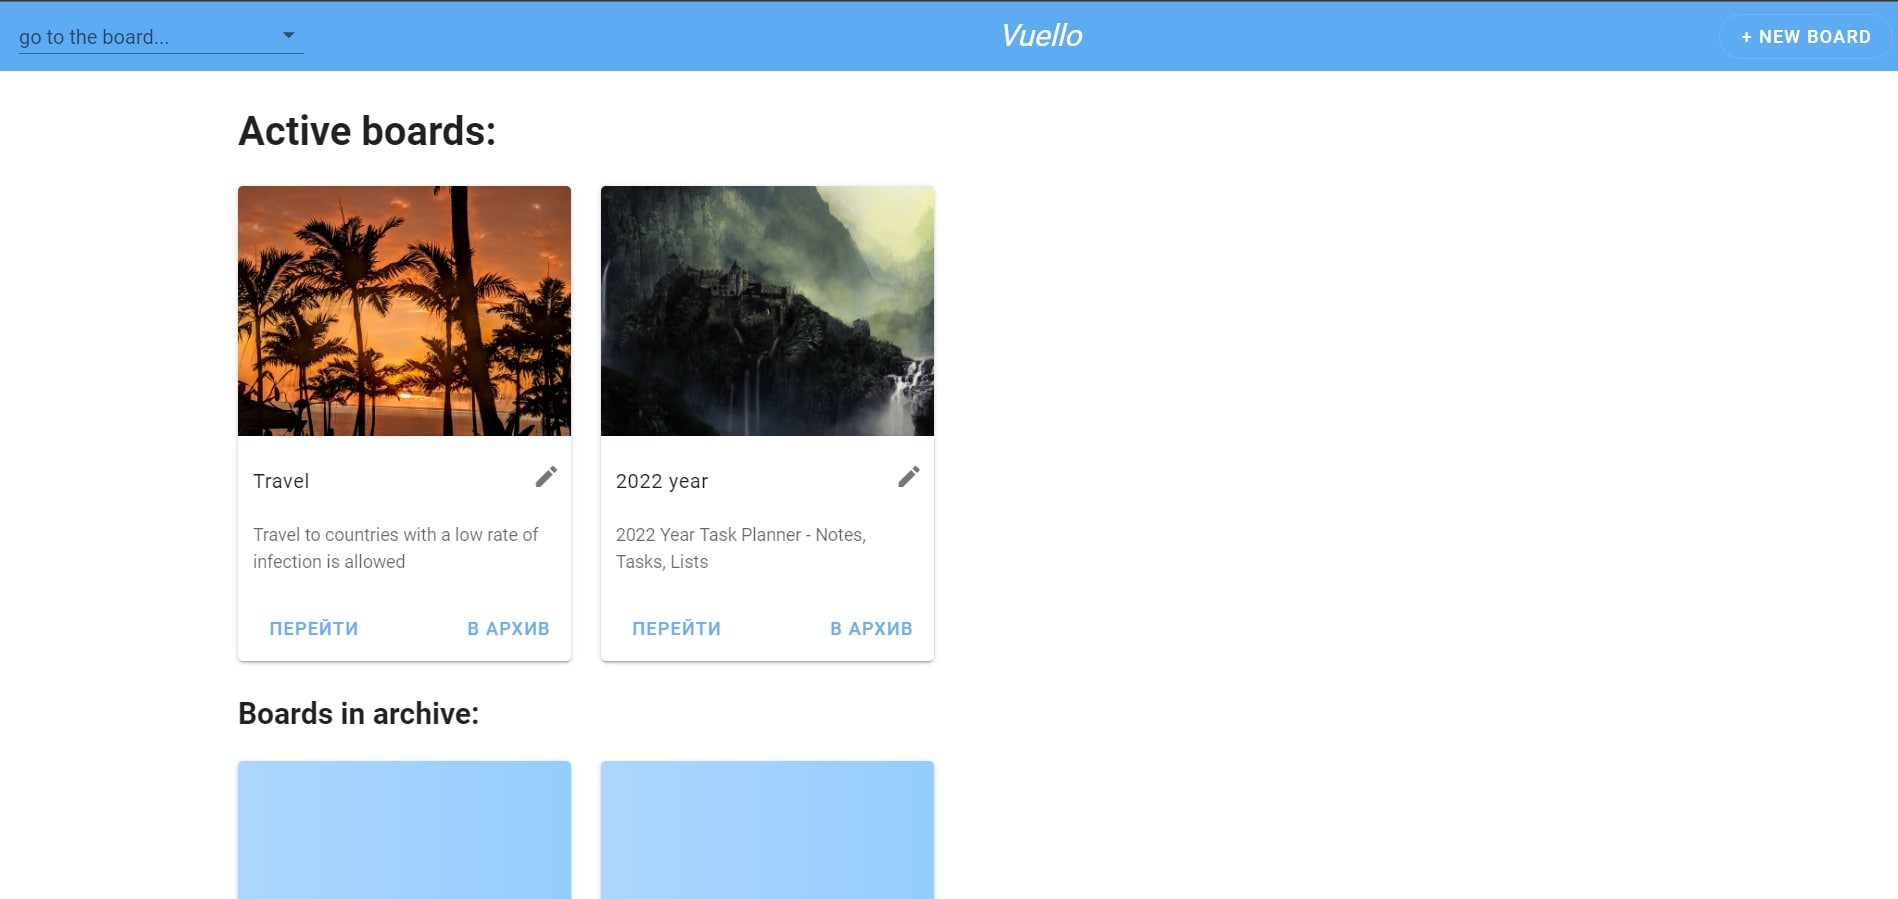
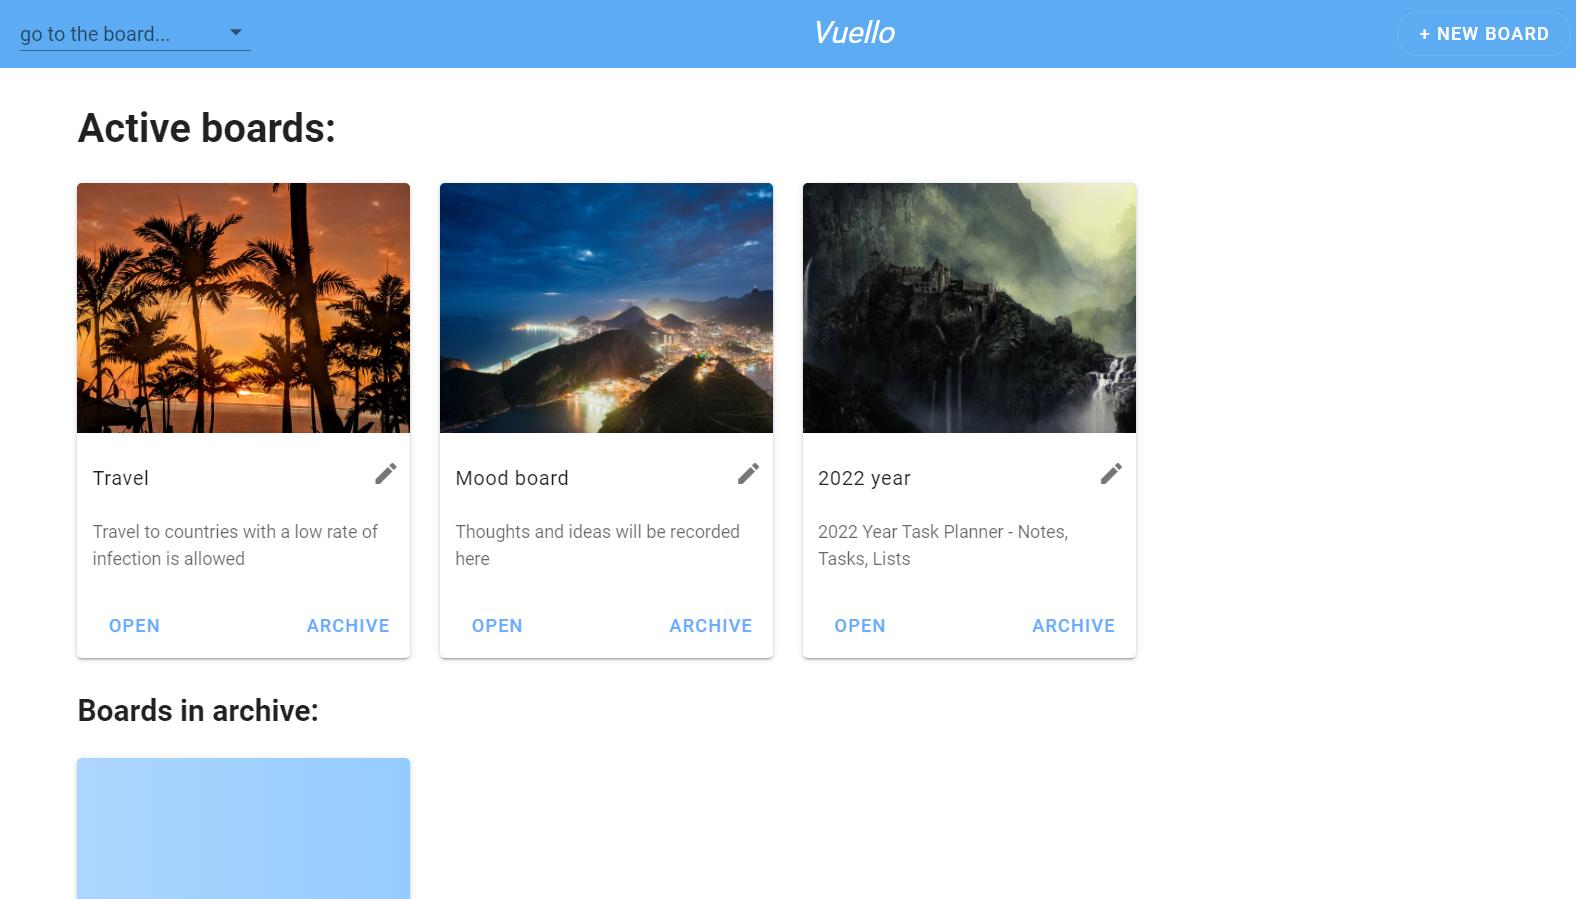
update README

diff --git a/src/components/Dashboard/DashboardItem.vue b/src/components/Dashboard/DashboardItem.vue
@@ -28,19 +28,19 @@
 
     <v-card-actions v-if="!board.archived">
       <router-link :to="'boards/' + board.id" class="link">
-        <v-btn color="primary lighten-2" text>Перейти </v-btn></router-link
+        <v-btn color="primary lighten-2" text>Open </v-btn></router-link
       >
 
       <v-spacer></v-spacer>
 
       <v-btn color="primary lighten-2" text @click="archiveBoard">
-        В архив
+        Archive
       </v-btn>
     </v-card-actions>
 
     <v-card-actions v-else>
       <v-btn color="primary lighten-2" text @click="archiveBoard">
-        Восстановить
+        Recover
       </v-btn>
     </v-card-actions>
   </v-card>

diff --git a/README.md b/README.md
@@ -5,7 +5,7 @@
 
 ## Project Information
 
-Vuello is a collaboration tool that organizes your projects into boards. In one glance, Vuello tells you what's being worked on, who's working on what, and where something is in a process. Imagine a white board, filled with lists of sticky notes, with each note as a task for you and your team. ... That's Vuello!\
+Vuello is a collaboration tool that organizes your projects into boards. In one glance, Vuello tells you what's being worked on, who's working on what, and where something is in a process. Imagine a white board, filled with lists of sticky notes, with each note as a task for you and your team. ... That's Vuello!
 
 This app provide you:
 
@@ -36,26 +36,6 @@ This app provide you:
 | Vutify     | A Material Design Framework for Vue.js                                                                         | https://vuetifyjs.com/en     |
 | Firebase   | Firebase is Google’s mobile application development platform that helps you build, improve, and grow your app. | https://firebase.google.com  |
 | Babel      | Javascript Compiler/Transpiler                                                                                 | https://babeljs.io           |
-
-## Project setup
-
-```
-npm install
-heroku create
-heroku git:clone -a morning-everglades-75841
-```
-
-### Compiles and hot-reloads for development
-
-```
-npm run start
-```
-
-### Compiles and minifies for production
-
-```
-git push heroku main
-```
 
 ## Project setup
 
